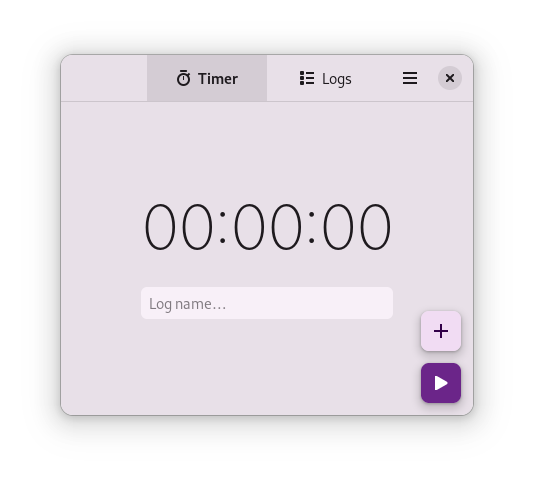
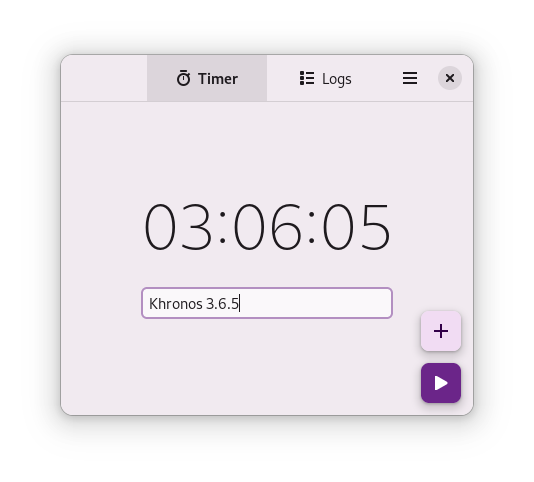
* - small contrast things

diff --git a/data/style.css b/data/style.css
@@ -3,10 +3,10 @@
 @define-color accent_fg_color #fff;
 @define-color accent_secondary_bg_color #f1dcf3;
 @define-color accent_secondary_fg_color #320048;
-@define-color window_bg_color #e8e0e8;
-@define-color view_bg_color #f8f0f8;
-@define-color headerbar_bg_color #e8e0e8;
-@define-color popover_bg_color #f8f0f8;
+@define-color window_bg_color #f1eaf0;
+@define-color view_bg_color #faf8fa;
+@define-color headerbar_bg_color #f1eaf0;
+@define-color popover_bg_color #faf8fa;
 @define-color popover_fg_color #1e1a1e;
 @define-color window_fg_color #1e1a1e;
 @define-color view_fg_color #1e1a1e;
